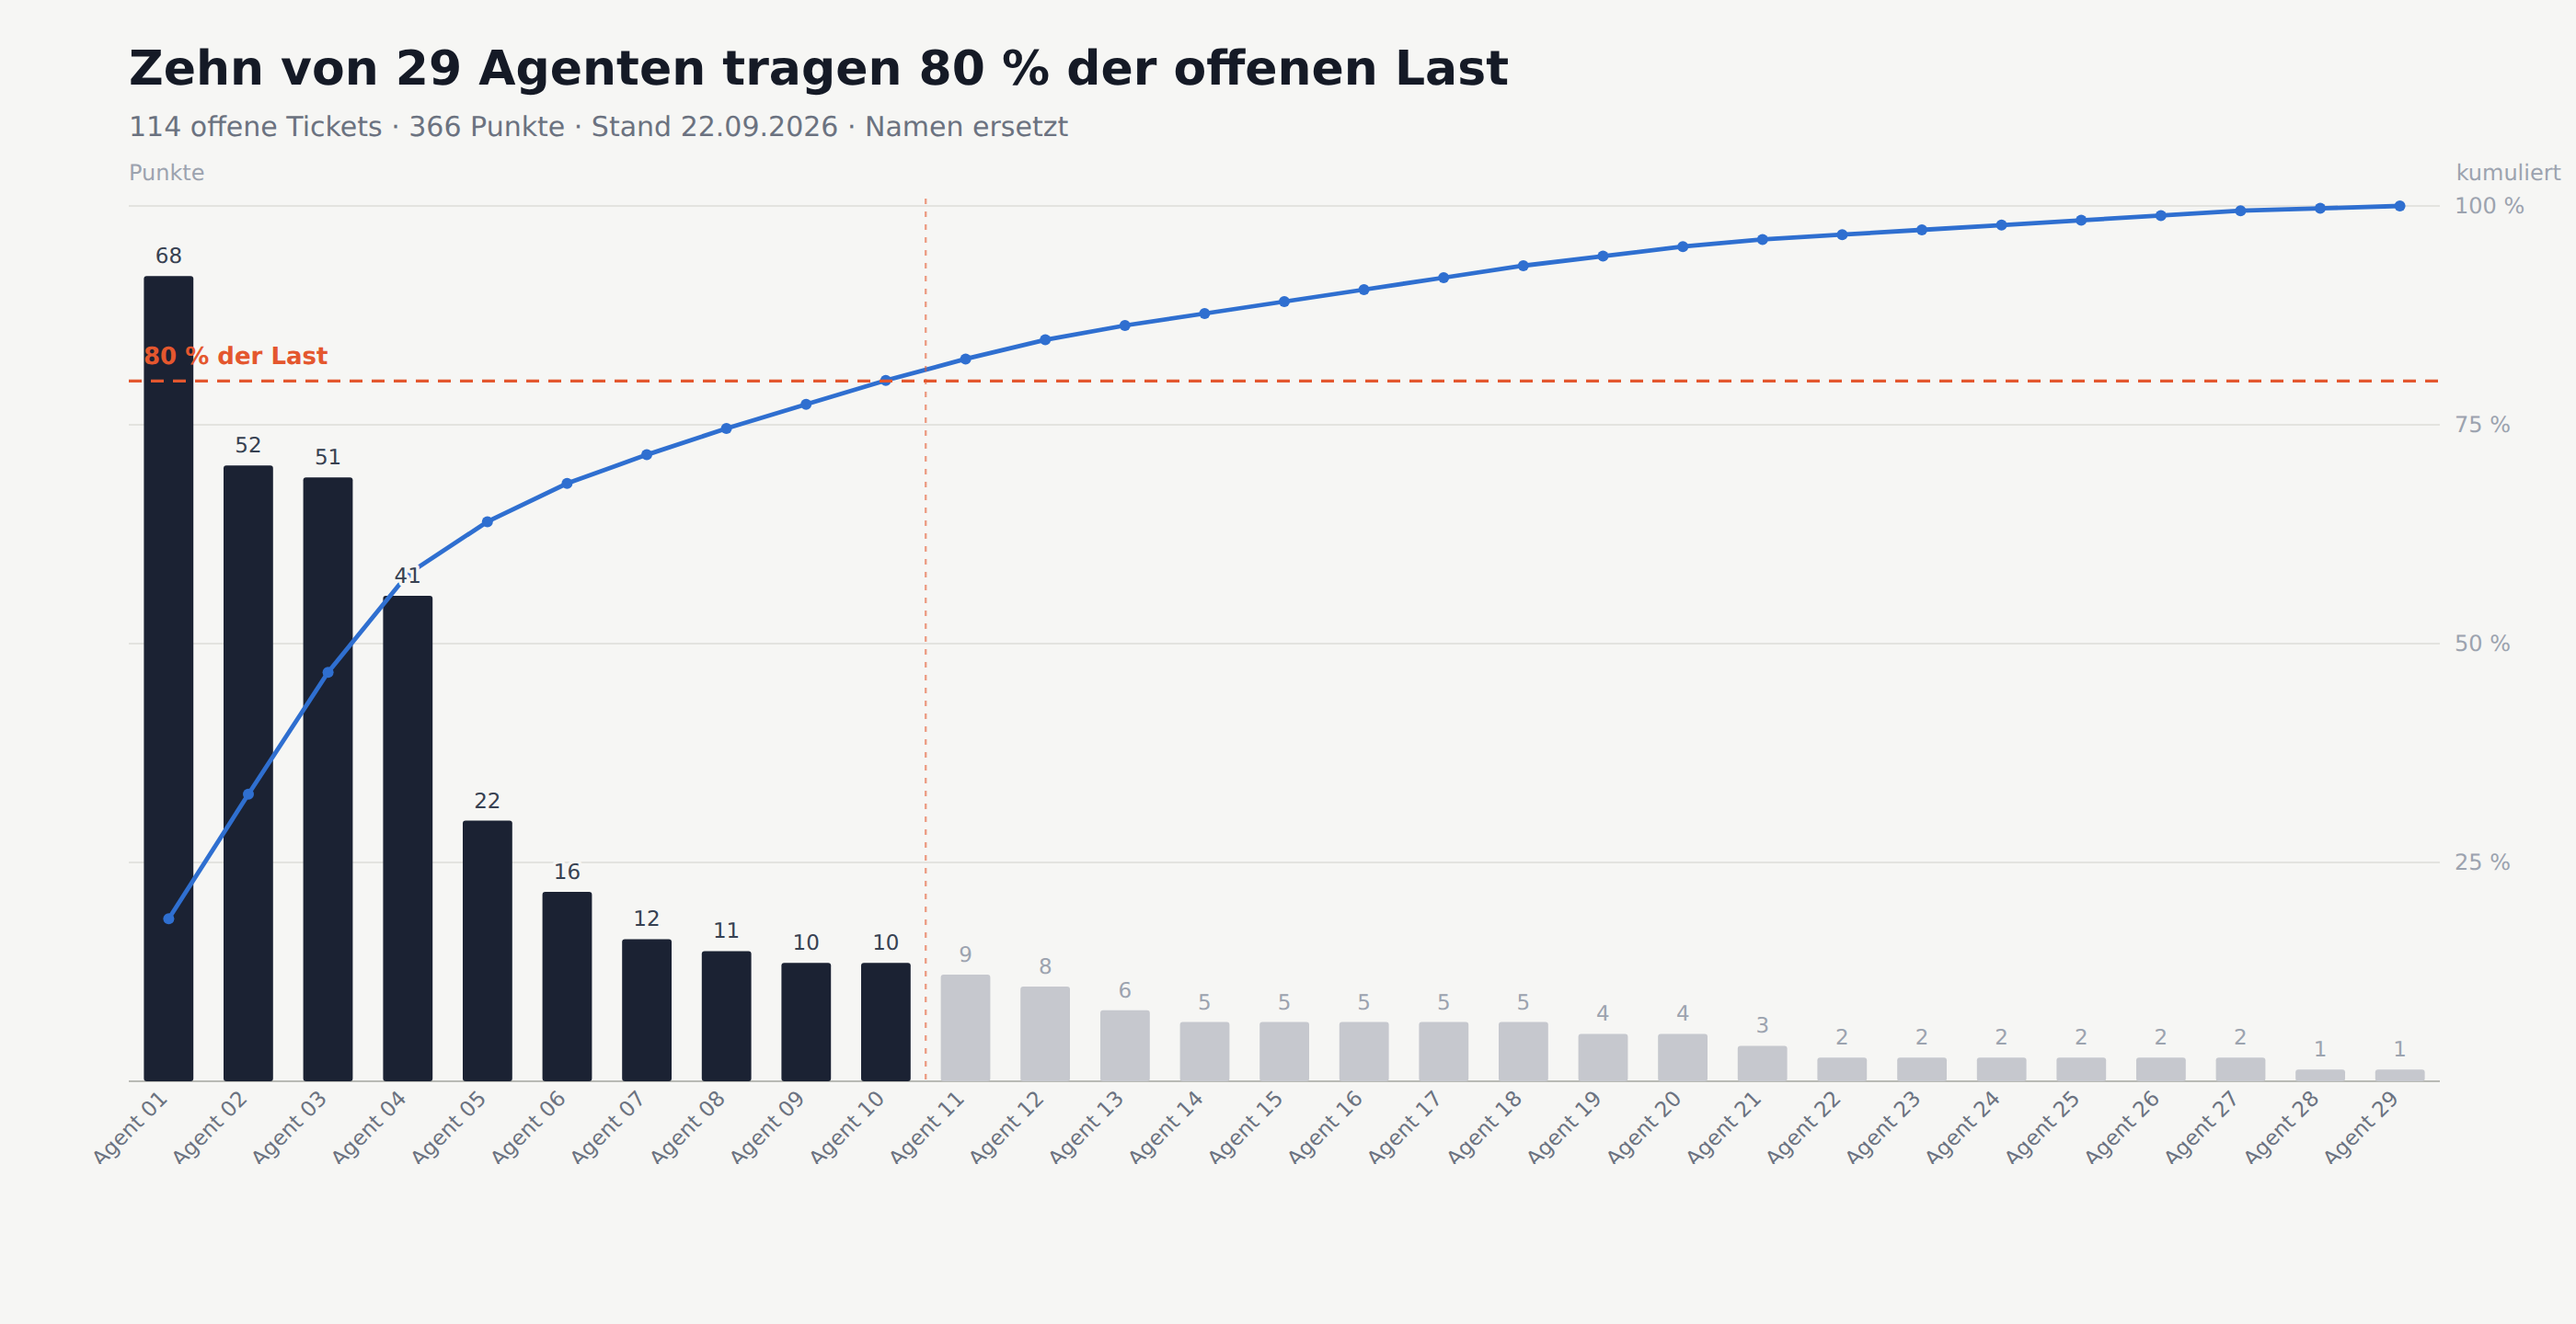
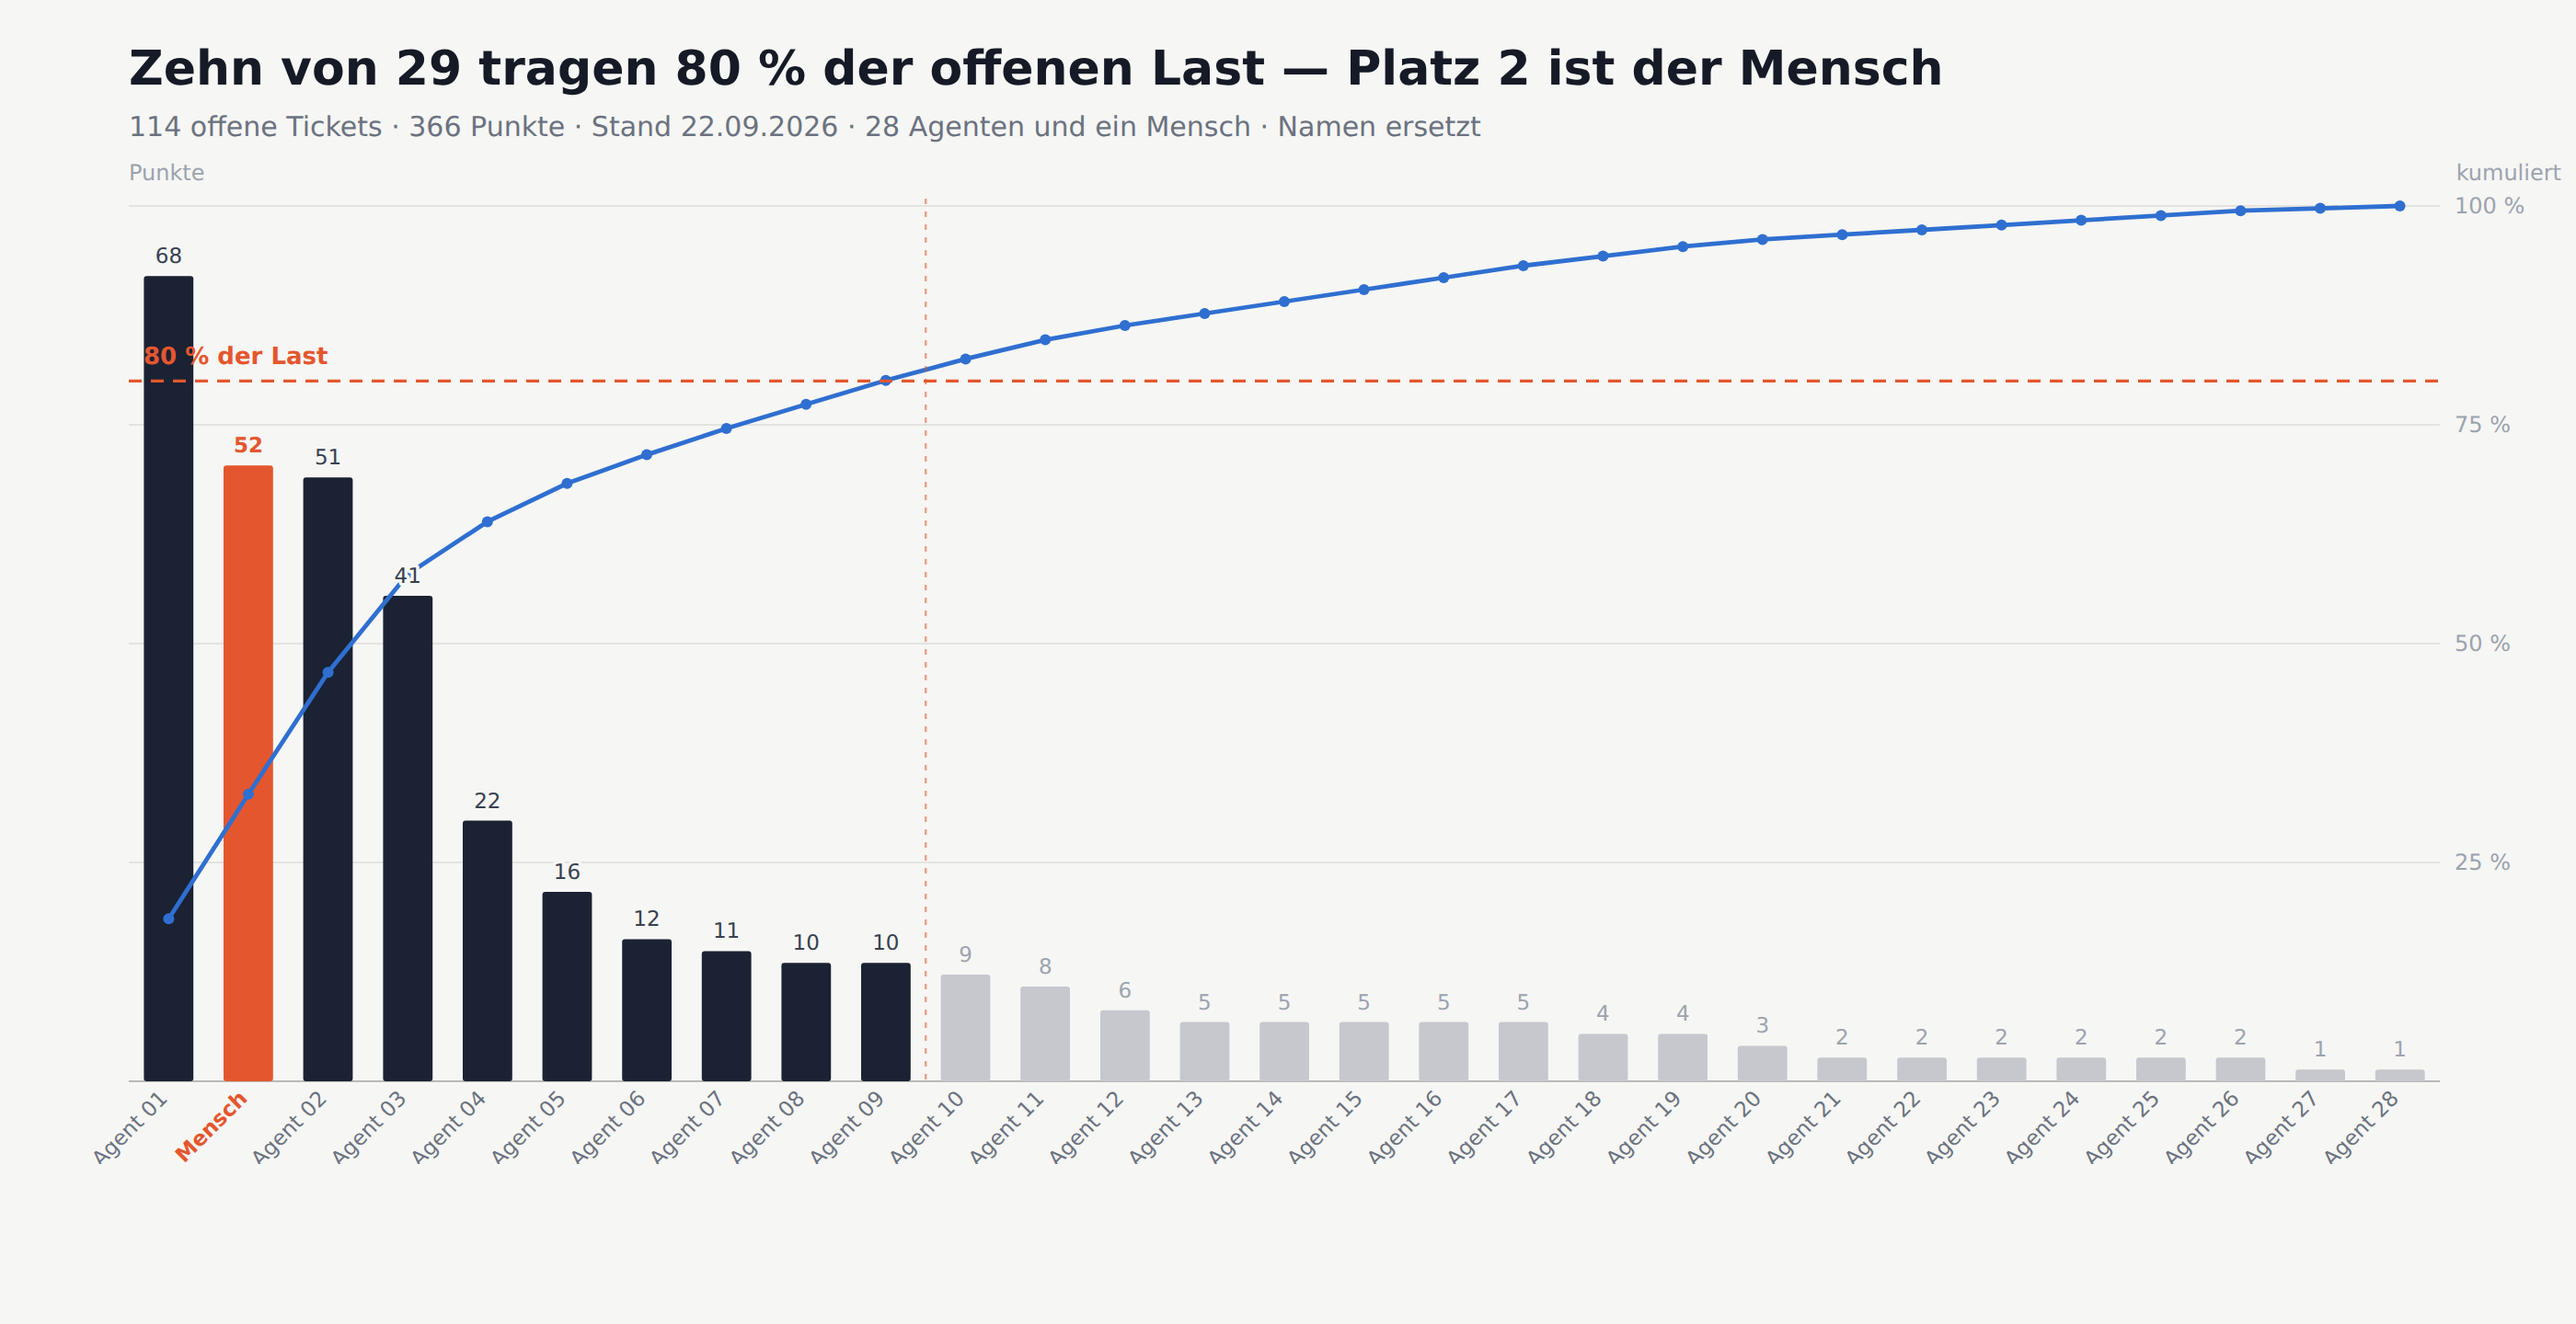
Zwei Aenderungen aus Michaels Freigabe-Anmerkungen (fA-1116)
1) Kanarie wird erklaert statt vorausgesetzt — der Begriff traegt den Absatz,
   stand aber unerklaert da.

2) Platz 2 der Pareto-Auswertung ist kein Agent, sondern der Mensch. Alle 29
   Balken "Agent" zu nennen war falsch, nicht unvollstaendig. Der Balken hat
   jetzt eigene Farbe und Beschriftung, die Agenten sind fortlaufend
   durchnummeriert (28 + 1). Der Abschnitt "Der Mensch ist der Engpass"
   bekommt damit seinen Beleg statt nur seiner Behauptung.

Eigener Rechenfehler in derselben Aenderung gleich mitkorrigiert: der Mensch
liegt IM 80-%-Kern, der Schwanz bleibt bei neunzehn Agenten.

Die Freigabe-Akte von 10:06/10:07 passt damit nicht mehr — Abdruck geaendert,
zweiter Durchgang auf Michaels Entscheid.

Changed region(s): [[0.0621, 0.3438, 0.1243, 0.875], [0.1864, 0.0312, 0.7457, 0.125], [0.4971, 0.0938, 0.5593, 0.125]]

diff --git a/src/content/blog/posts.js b/src/content/blog/posts.js
@@ -74,7 +74,7 @@ Die Einzelheit, die den Fall zum Lehrstück macht: \`ln -sfn\` legt einen Link *
 
 Das ist der Satz, den wir am häufigsten gebraucht haben, und er beschreibt einen Konstruktionsfehler, der sich unauffällig in fast jede selbst gebaute Kontrolle einschleicht. Drei Fälle, alle gemessen.
 
-**Die Kanarie, die im Fehlerfall grün ist.** Zentrale Regeln werden per Import in die Konfiguration der Agenten geladen, und als Beweis, dass der Import funktioniert, steht eine sichtbare Markerzeile darin. Ein Import war **zwei Wochen tot**: Eine Import-Zeile, die auf eine fehlende Datei zeigt, wird still übersprungen. Der Marker stand trotzdem da — eine andere Schicht lud dieselbe Datei und brachte ihn mit. Daraus wurde die Regel: Ein Marker beweist nur den Import, den **ausschließlich diese eine Zeile** liefert.
+**Die Kanarie, die im Fehlerfall grün ist.** Eine Kanarie ist der Vogel, den Bergleute mit unter Tage nahmen: ein kleiner, billiger Anzeiger, der **vor** dem Menschen und **sichtbar** ausfällt. In Software ist es dasselbe Prinzip — eine winzige Prüfung, die mitläuft und laut wird, bevor das Große kippt. Wer eine einbaut, verlässt sich darauf, dass ihr Schweigen etwas bedeutet. Bei uns werden zentrale Regeln per Import in die Konfiguration der Agenten geladen, und die Kanarie ist eine sichtbare Markerzeile darin. Ein Import war **zwei Wochen tot**: Eine Import-Zeile, die auf eine fehlende Datei zeigt, wird still übersprungen. Der Marker stand trotzdem da — eine andere Schicht lud dieselbe Datei und brachte ihn mit. Daraus wurde die Regel: Ein Marker beweist nur den Import, den **ausschließlich diese eine Zeile** liefert.
 
 **Der Test, der das Falsche zählt.** Für den Arbeitsplatz sollten Terminal-Reiter gezielt in bestimmte Fenster einsortiert werden. Gegengeprüft wurde zuerst mit „Fensterzahl plus eins", und die Sache galt als gelöst. Der Test taugt nichts: Er zeigt, dass ein Fenster entstanden ist, nicht wohin der Reiter ging — beide Fälle ergeben dieselbe Zahl. Die Messung, die es dann zeigte:
 
@@ -151,11 +151,11 @@ An einem Morgen trug die Warteschlange des Menschen **16 Einträge**; nach ander
 3. **Die Sperre trägt eine andere Frage als die, für die sie gesetzt wurde.** Wer nur die Liste liest, stellt die alte Frage.
 4. **Die Antwort steht schon im Verlauf, es fehlt nur ein Befehl.** Zwei Vorgänge warteten tagelang auf je eine einzige Messzeile.
 
-Dieselbe Ungleichverteilung zeigt sich, wenn man die offene Last je Agent aufträgt statt sie zu schätzen:
+Dieselbe Ungleichverteilung zeigt sich, wenn man die offene Last je Beteiligtem aufträgt statt sie zu schätzen — den Menschen ausdrücklich mitgezählt:
 
-![Offene Last je Agent, 22.09.2026: 29 Agenten, 366 Punkte — zehn davon tragen zusammen 80 Prozent. Die Verteilung stammt aus der eigenen Auswertung, die Namen sind durch Platzhalter ersetzt.](/blog/agenten-stille-sieht-aus-wie-erfolg/figures/de/pareto.png)
+![Offene Last je Beteiligtem, 22.09.2026: 28 Agenten und ein Mensch, 366 Punkte — zehn davon tragen zusammen 80 Prozent, und der Mensch steht auf Platz zwei. Die Verteilung stammt aus der eigenen Auswertung, die Namen sind durch Platzhalter ersetzt.](/blog/agenten-stille-sieht-aus-wie-erfolg/figures/de/pareto.png)
 
-**29 Agenten, 366 Punkte, und zehn davon tragen 80 Prozent.** Die anderen neunzehn sind nicht untätig — sie sind still, und Stille ist hier kein Erfolgsnachweis, sondern eine offene Frage. Ohne diese Auswertung hätte niemand sagen können, wo die Last wirklich liegt; der Eindruck im Alltag folgt dem, wer am lautesten schreibt.
+**29 Beteiligte, 366 Punkte, und zehn davon tragen 80 Prozent — auf Platz zwei steht der Mensch.** Das ist der Beleg für die Überschrift dieses Abschnitts, und er war uns selbst nicht bewusst, bevor wir es aufgetragen haben: Der Mensch ist nicht Engpass, weil er zu langsam entscheidet, sondern weil nach den Agenten tatsächlich auf ihm die zweitgrößte offene Last liegt. Die anderen neunzehn Agenten sind nicht untätig — sie sind still, und Stille ist hier kein Erfolgsnachweis, sondern eine offene Frage. Ohne diese Auswertung hätte niemand sagen können, wo die Last wirklich liegt; der Eindruck im Alltag folgt dem, wer am lautesten schreibt.
 
 Aus den vier Mustern ist eine eigene Rolle geworden: eine Sitzung, die täglich gegenliest, **bevor** der Mensch die Liste sieht. Sie legt vor, sie entscheidet nicht, und sie löst keine Sperre, die sie nicht belegen kann. Der Grund steht in einem Satz, der die Grenze dieser Idee markiert: *Eine aufgeräumte Warteschlange, in der eine echte Frage verschwunden ist, ist schlimmer als eine lange.*
 
@@ -273,7 +273,7 @@ The detail that makes this a teaching case: \`ln -sfn\` will create a link **eve
 
 This is the sentence we used most often, and it describes a design flaw that works its way quietly into almost every home-made control. Three cases, all measured.
 
-**The canary that is green when it fails.** Central rules are pulled into the agents' configuration via an import, and as proof that the import works, a visible marker line sits inside it. One import was **dead for two weeks**: an import line pointing at a missing file is silently skipped. The marker was there anyway — another layer loaded the same file and brought it along. Hence the rule: a marker only proves the import that **this one line alone** delivers.
+**The canary that is green when it fails.** A canary is the bird miners took underground with them: a small, cheap indicator that fails **before** the human does, and **visibly**. In software it is the same idea — a tiny check that runs along and gets loud before the big thing tips over. Anyone who installs one is relying on its silence meaning something. In our setup, central rules are pulled into the agents' configuration via an import, and the canary is a visible marker line inside it. One import was **dead for two weeks**: an import line pointing at a missing file is silently skipped. The marker was there anyway — another layer loaded the same file and brought it along. Hence the rule: a marker only proves the import that **this one line alone** delivers.
 
 **The test that counts the wrong thing.** For the workplace, terminal tabs were supposed to be sorted into specific windows. The first cross-check was "window count plus one", and the matter was considered solved. That test is worthless: it shows that a window was created, not where the tab went — both cases yield the same number. The measurement that did show it:
 
@@ -350,11 +350,11 @@ One morning the human's queue held **16 items**; an hour and a half later it hel
 3. **The block carries a different question than the one it was set for.** Read only the list, and you ask the old question.
 4. **The answer is already in the history, only a command is missing.** Two items waited for days on a single line of measurement each.
 
-The same uneven distribution shows up when you plot open load per agent instead of estimating it:
+The same uneven distribution shows up when you plot open load per participant instead of estimating it — with the human explicitly counted in:
 
-![Open load per agent, 22 September 2026: 29 agents, 366 points — ten of them carry 80 percent between them. The distribution is from our own board; the names are replaced with placeholders.](/blog/agenten-stille-sieht-aus-wie-erfolg/figures/en/pareto.png)
+![Open load per participant, 22 September 2026: 28 agents and one human, 366 points — ten of them carry 80 percent between them, and the human sits at rank two. The distribution is from our own board; the names are replaced with placeholders.](/blog/agenten-stille-sieht-aus-wie-erfolg/figures/en/pareto.png)
 
-**29 agents, 366 points, and ten of them carry 80 percent.** The other nineteen are not idle — they are silent, and silence here is not proof of success but an open question. Without this plot nobody could have said where the load actually sits; day to day, the impression follows whoever writes loudest.
+**29 participants, 366 points, and ten of them carry 80 percent — rank two is the human.** That is the evidence for this section's heading, and we did not see it ourselves until we plotted it: the human is not the bottleneck for deciding too slowly, but because after the agents the second-largest open load genuinely sits with him. The other nineteen agents are not idle — they are silent, and silence here is not proof of success but an open question. Without this plot nobody could have said where the load actually sits; day to day, the impression follows whoever writes loudest.
 
 Out of those four patterns grew a role of its own: a session that reads the queue every day **before** the human sees it. It presents, it does not decide, and it clears no block it cannot substantiate. The reason sits in one sentence that marks the limit of the idea: *a tidy queue with a real question missing from it is worse than a long one.*
 
